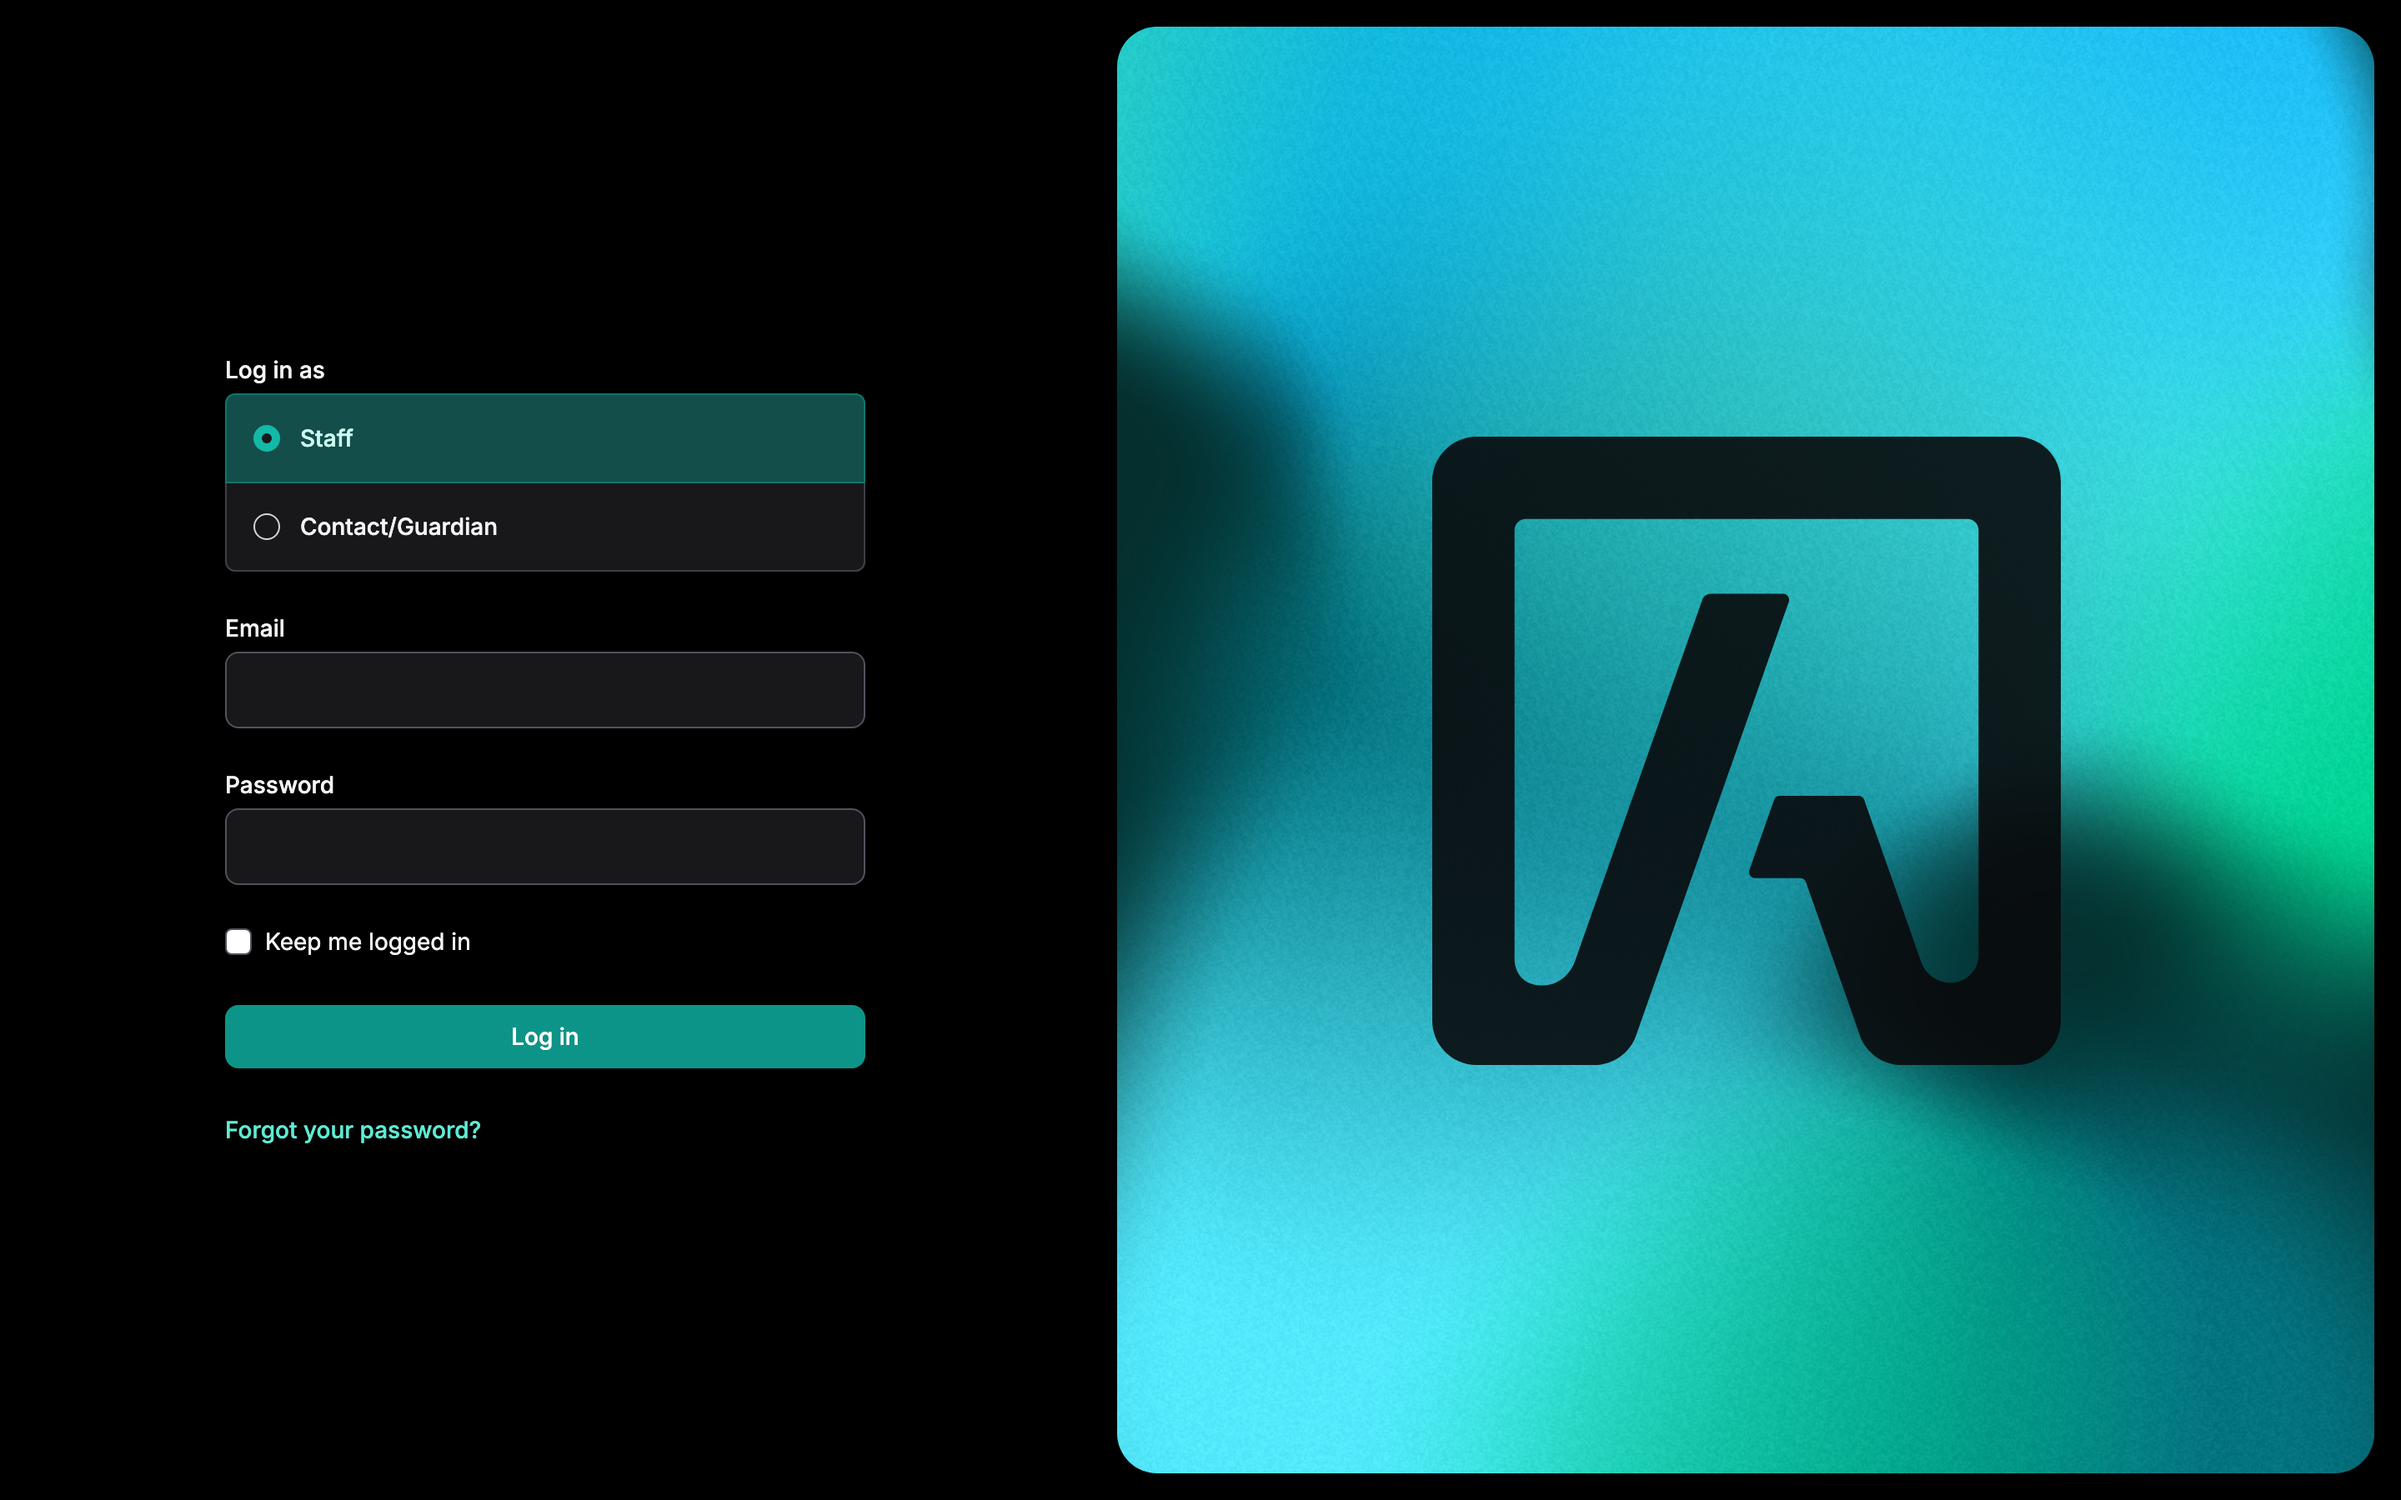
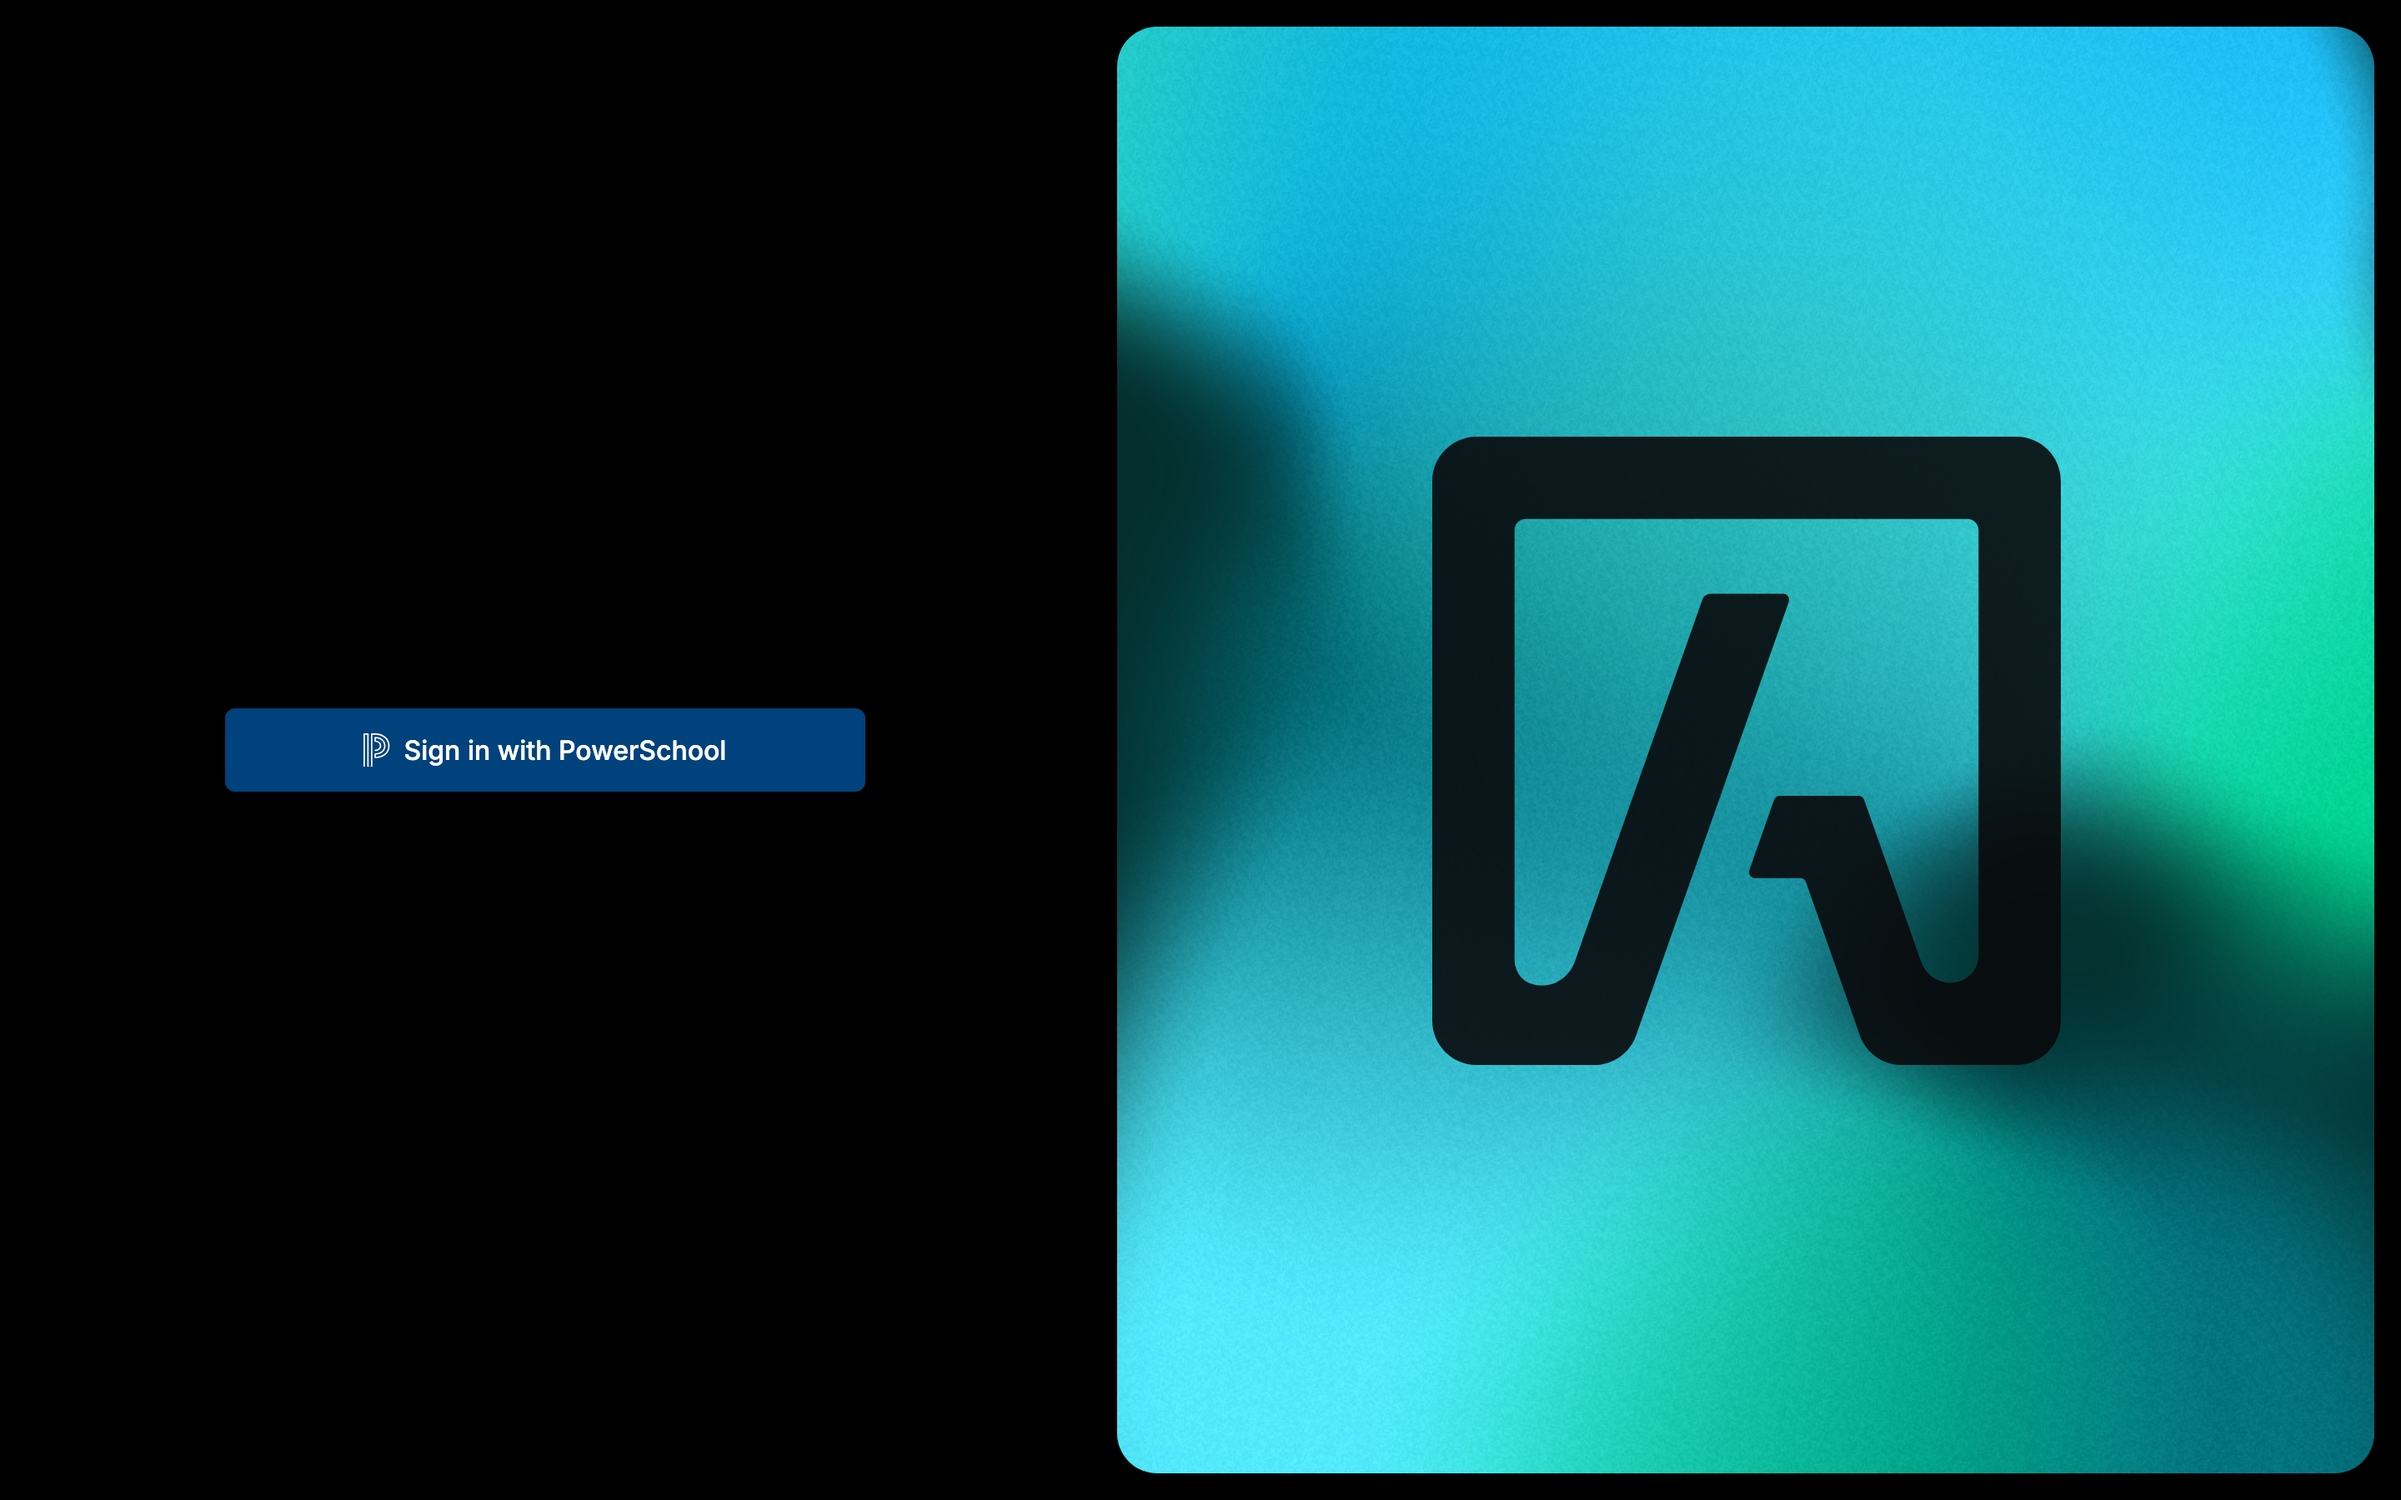
Update screenshots

Changed region(s): [[0.0938, 0.2489, 0.375, 0.5911], [0.0938, 0.6222, 0.375, 0.7156], [0.0938, 0.7467, 0.1875, 0.7778]]

diff --git a/docs/scripts/screenshots.ts b/docs/scripts/screenshots.ts
@@ -9,6 +9,7 @@
  */
 import { chromium, type Browser, type Page } from 'playwright';
 import { mkdir } from 'node:fs/promises';
+import { execFileSync } from 'node:child_process';
 
 const BASE_URL = process.env.SCREENSHOT_URL ?? 'https://tidal-ptc.test';
 const OUT = new URL('../src/assets/screenshots/', import.meta.url);
@@ -29,7 +30,15 @@ type Shot = {
   path: string;
   /** Runs after the page loads, e.g. to open a modal or follow the first row. */
   action?: (page: Page) => Promise<void>;
+  /** Swaps the tenant to PowerSchool sign-in only for this shot. DemoSeeder has password on and OIDC off. */
+  ssoOnly?: boolean;
 };
+
+/** Needs the app's PHP CLI against the same database the target URL uses. */
+const setSsoOnly = (ssoOnly: boolean) => execFileSync('php', [
+  'artisan', 'tinker', '--execute',
+  `App\\Models\\Tenant::query()->update(["allow_oidc_login" => ${ssoOnly}, "allow_password_auth" => ${!ssoOnly}]);`,
+], { cwd: new URL('../../', import.meta.url) });
 
 const openFirst = (selector: string) => async (page: Page) => {
   await page.locator(selector).first().click();
@@ -44,7 +53,7 @@ const showSlots = async (page: Page) => {
 
 /** Names here are what docs pass to <Screenshot name="..." />. */
 export const SHOTS: Shot[] = [
-  { name: 'login', user: null, path: '/login' },
+  { name: 'login', user: null, path: '/login', ssoOnly: true },
   { name: 'dashboard-admin', user: 'admin', path: '/' },
   { name: 'dashboard-teacher', user: 'teacher', path: '/' },
   { name: 'dashboard-guardian', user: 'guardian', path: '/' },
@@ -114,6 +123,9 @@ for (const shot of shots) {
     const page = await context.newPage();
 
     try {
+      if (shot.ssoOnly) {
+        setSsoOnly(true);
+      }
       await page.goto(shot.path, { waitUntil: 'networkidle' });
       await shot.action?.(page);
       // Let transitions and fonts settle
@@ -124,6 +136,9 @@ for (const shot of shots) {
       console.error(`✗ ${shot.name}-${colorScheme}: ${(error as Error).message}`);
       process.exitCode = 1;
     } finally {
+      if (shot.ssoOnly) {
+        setSsoOnly(false);
+      }
       await context.close();
     }
   }
